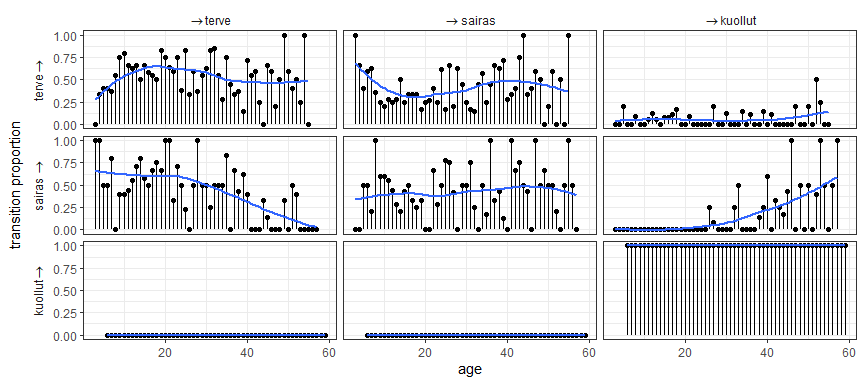
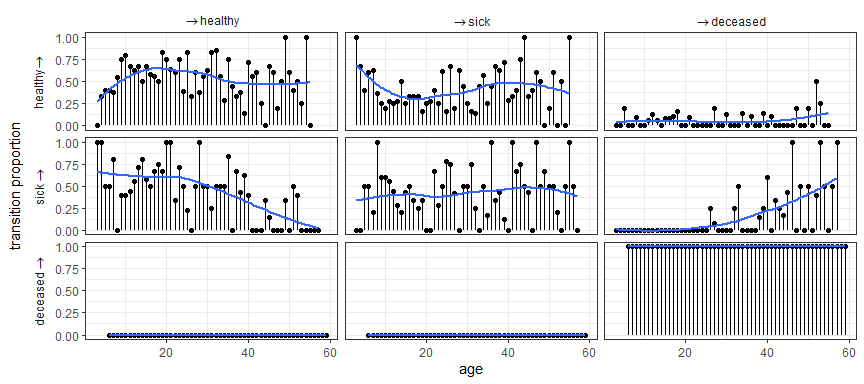
Translate health data to English

diff --git a/README.md b/README.md
@@ -40,19 +40,19 @@ year for 10 years.
 library(nhmgrid)
 
 head(health, 12)
-#>    id    sex age  state lagstate
-#> 1   1 female  15  terve     <NA>
-#> 2   1 female  16 sairas    terve
-#> 3   1 female  17 sairas   sairas
-#> 4   1 female  18  terve   sairas
-#> 5   1 female  19  terve    terve
-#> 6   1 female  20  terve    terve
-#> 7   1 female  21 sairas    terve
-#> 8   1 female  22 sairas   sairas
-#> 9   1 female  23  terve   sairas
-#> 10  1 female  24 sairas    terve
-#> 11  2 female  20  terve     <NA>
-#> 12  2 female  21  terve    terve
+#>    id    sex age   state lagstate
+#> 1   1 female  15 healthy     <NA>
+#> 2   1 female  16    sick  healthy
+#> 3   1 female  17    sick     sick
+#> 4   1 female  18 healthy     sick
+#> 5   1 female  19 healthy  healthy
+#> 6   1 female  20 healthy  healthy
+#> 7   1 female  21    sick  healthy
+#> 8   1 female  22    sick     sick
+#> 9   1 female  23 healthy     sick
+#> 10  1 female  24    sick  healthy
+#> 11  2 female  20 healthy     <NA>
+#> 12  2 female  21 healthy  healthy
 nrow(health)
 #> [1] 1000
 ```
